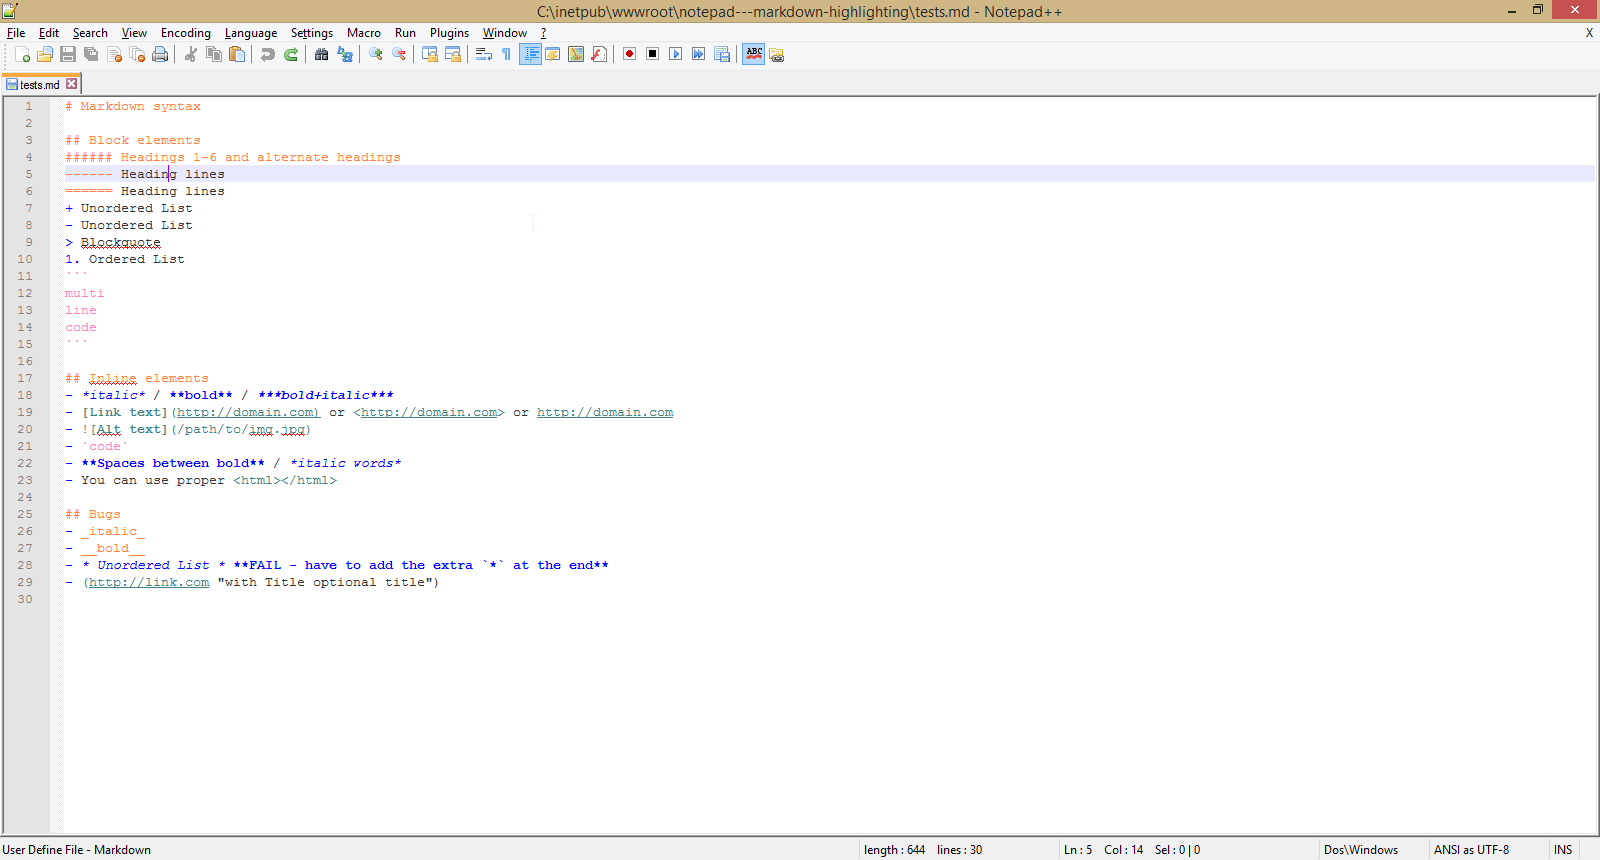
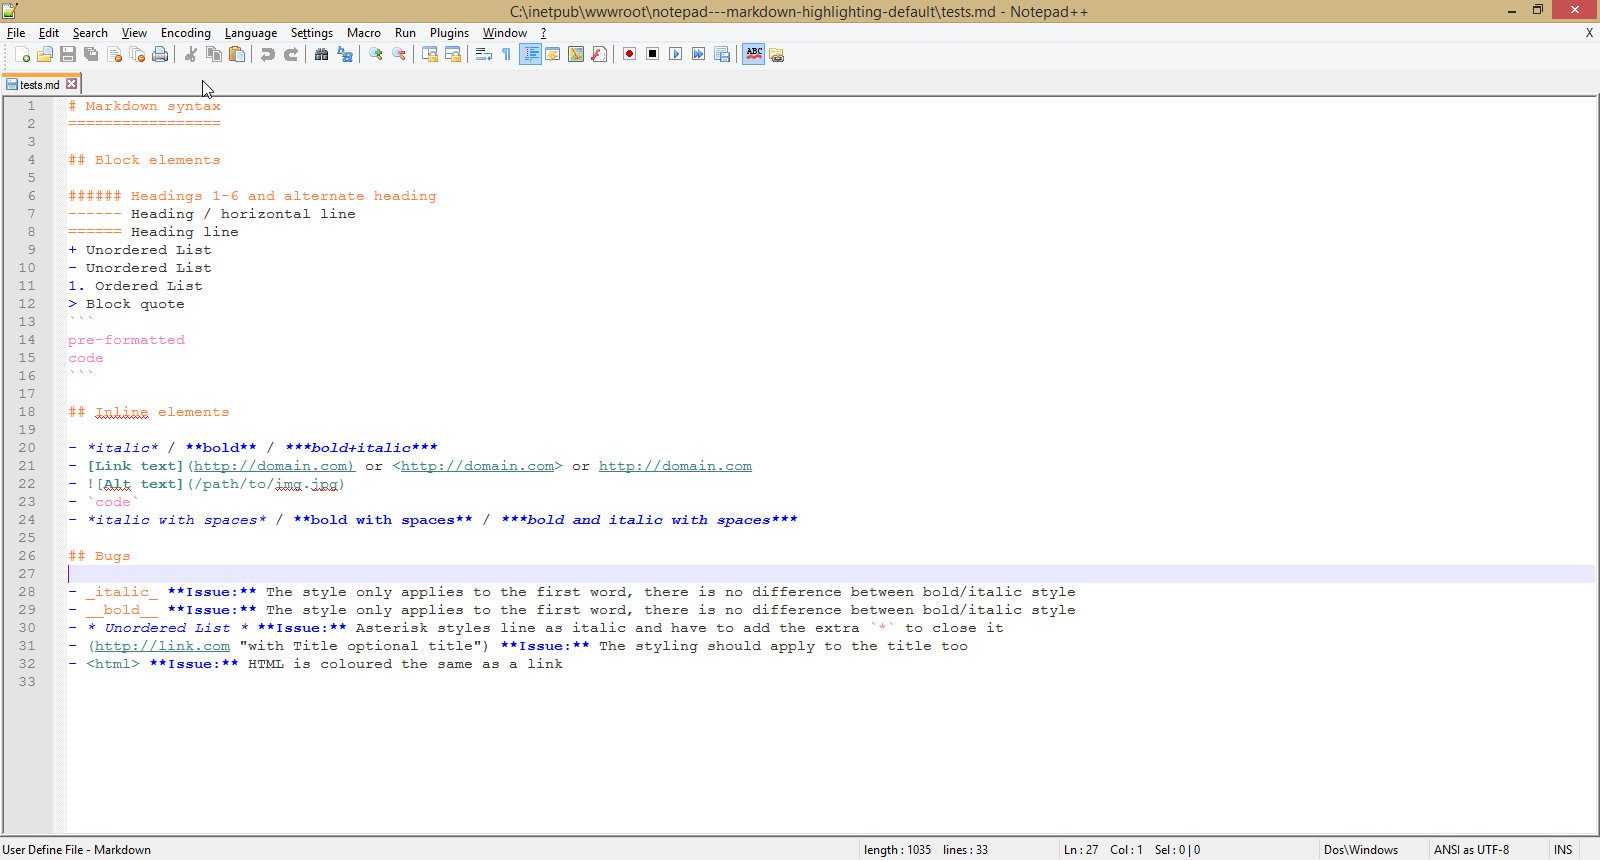
added labels for the bugs and put <html> syntax as a bug

diff --git a/tests.md b/tests.md
@@ -1,29 +1,32 @@
 # Markdown syntax
+=================
 
 ## Block elements
-###### Headings 1-6 and alternate headings
------- Heading lines
-====== Heading lines
+
+###### Headings 1-6 and alternate heading
+------ Heading / horizontal line
+====== Heading line
 + Unordered List
 - Unordered List
-> Blockquote
 1. Ordered List
+> Block quote
 ```
-multi
-line
+pre-formatted
 code
 ```
 
 ## Inline elements
+
 - *italic* / **bold** / ***bold+italic***
 - [Link text](http://domain.com) or <http://domain.com> or http://domain.com
 - ![Alt text](/path/to/img.jpg)
 - `code`
-- **Spaces between bold** / *italic words*
-- You can use proper <html></html>
+- *italic with spaces* / **bold with spaces** / ***bold and italic with spaces***
 
 ## Bugs
-- _italic_
-- __bold__
-- * Unordered List * **FAIL - have to add the extra `*` at the end**
-- (http://link.com "with Title optional title")
+
+- _italic_ **Issue:** The style only applies to the first word, there is no difference between bold/italic style
+- __bold__ **Issue:** The style only applies to the first word, there is no difference between bold/italic style
+- * Unordered List * **Issue:** Asterisk styles line as italic and have to add the extra `*` to close it
+- (http://link.com "with optional title") **Issue:** The styling should apply to the title too
+- <html> **Issue:** HTML is coloured the same as a link
